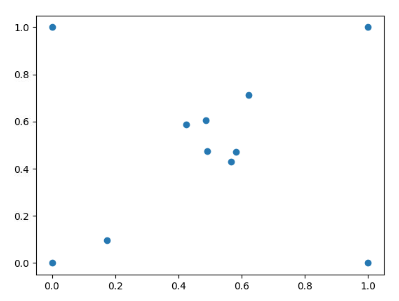
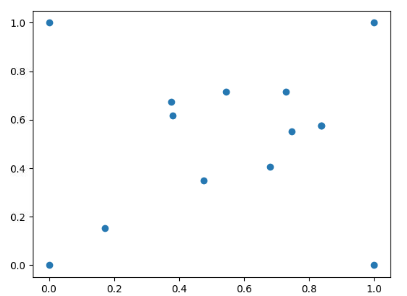
fix j

diff --git a/main.py b/main.py
@@ -1,6 +1,6 @@
 import S3L as S3L, random as rnd, math as math
 import matplotlib.pyplot as plt
-agentmodel = S3L.S3L_agent(2, 3.1, 2)
+agentmodel = S3L.S3L_agent(2, 3.1, 4)
 def realLearnStep():
   policy = agentmodel.selectPolicy()
   performance = evaluatePolicy(policy)
